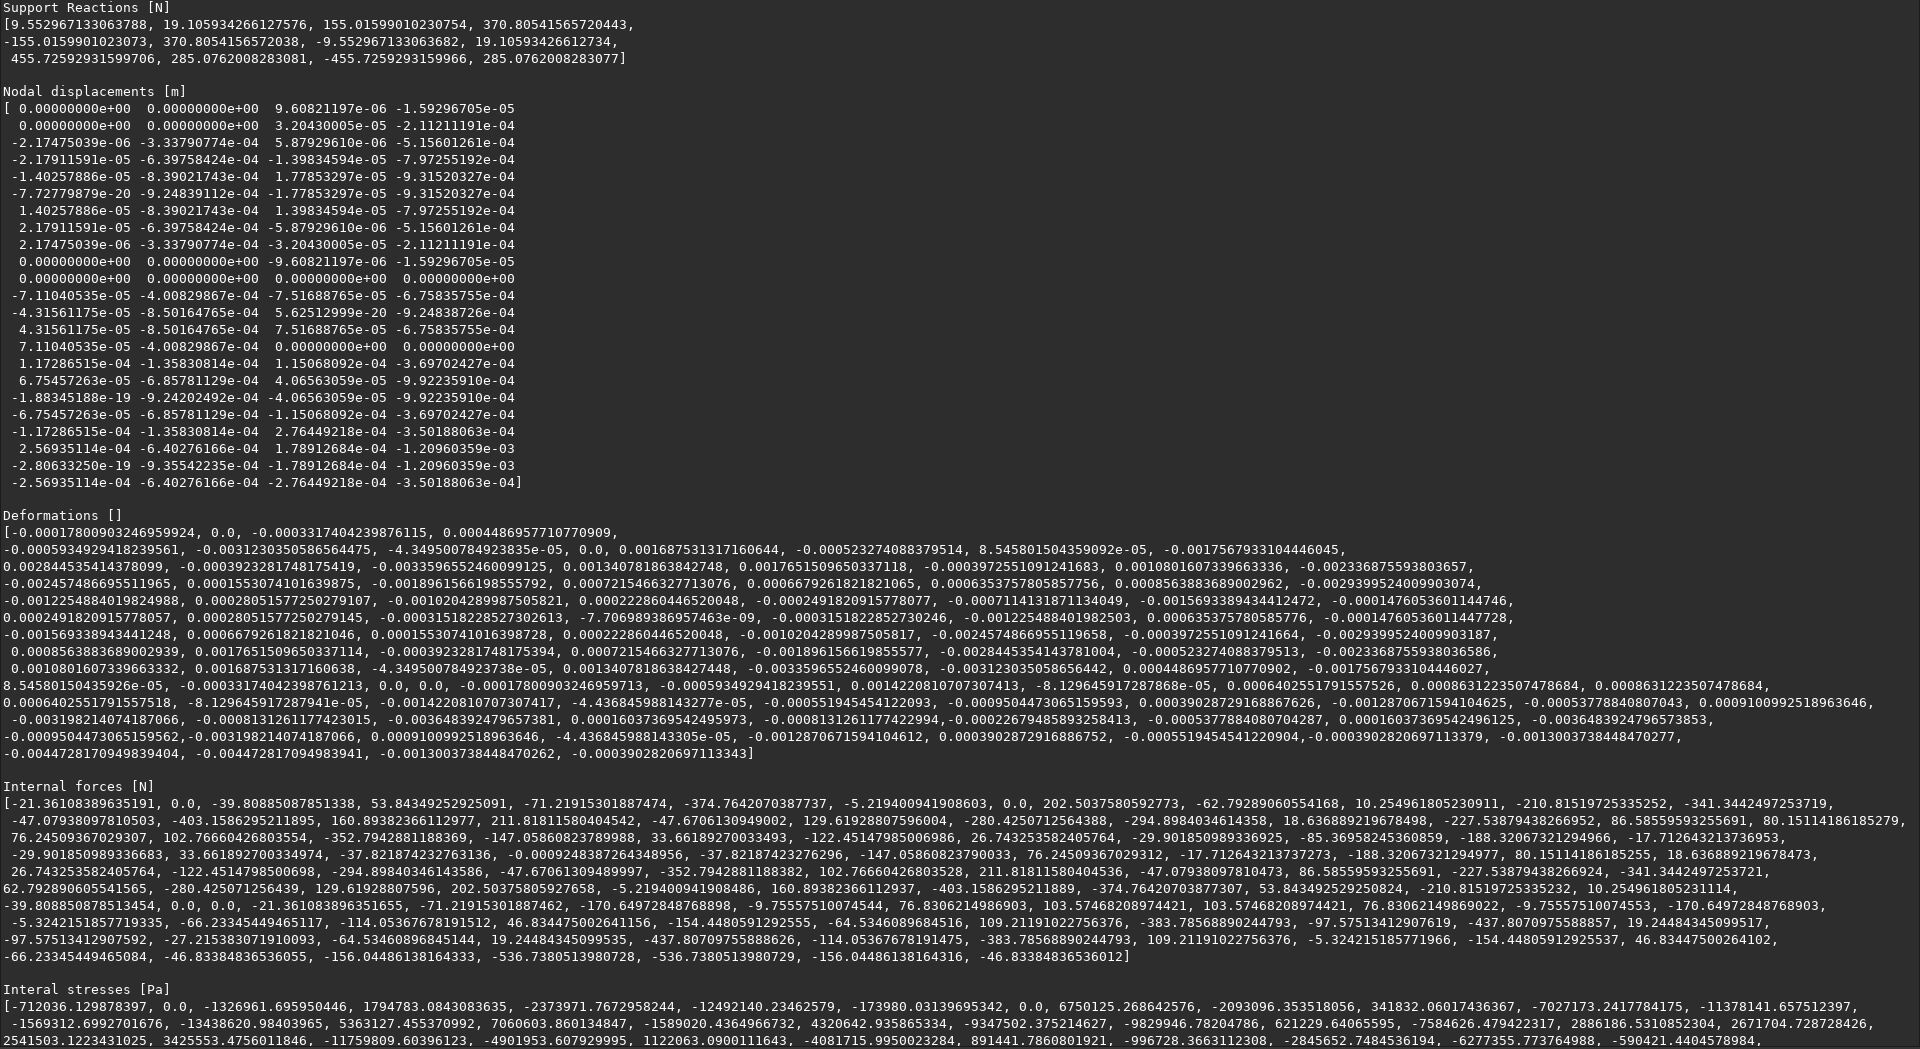
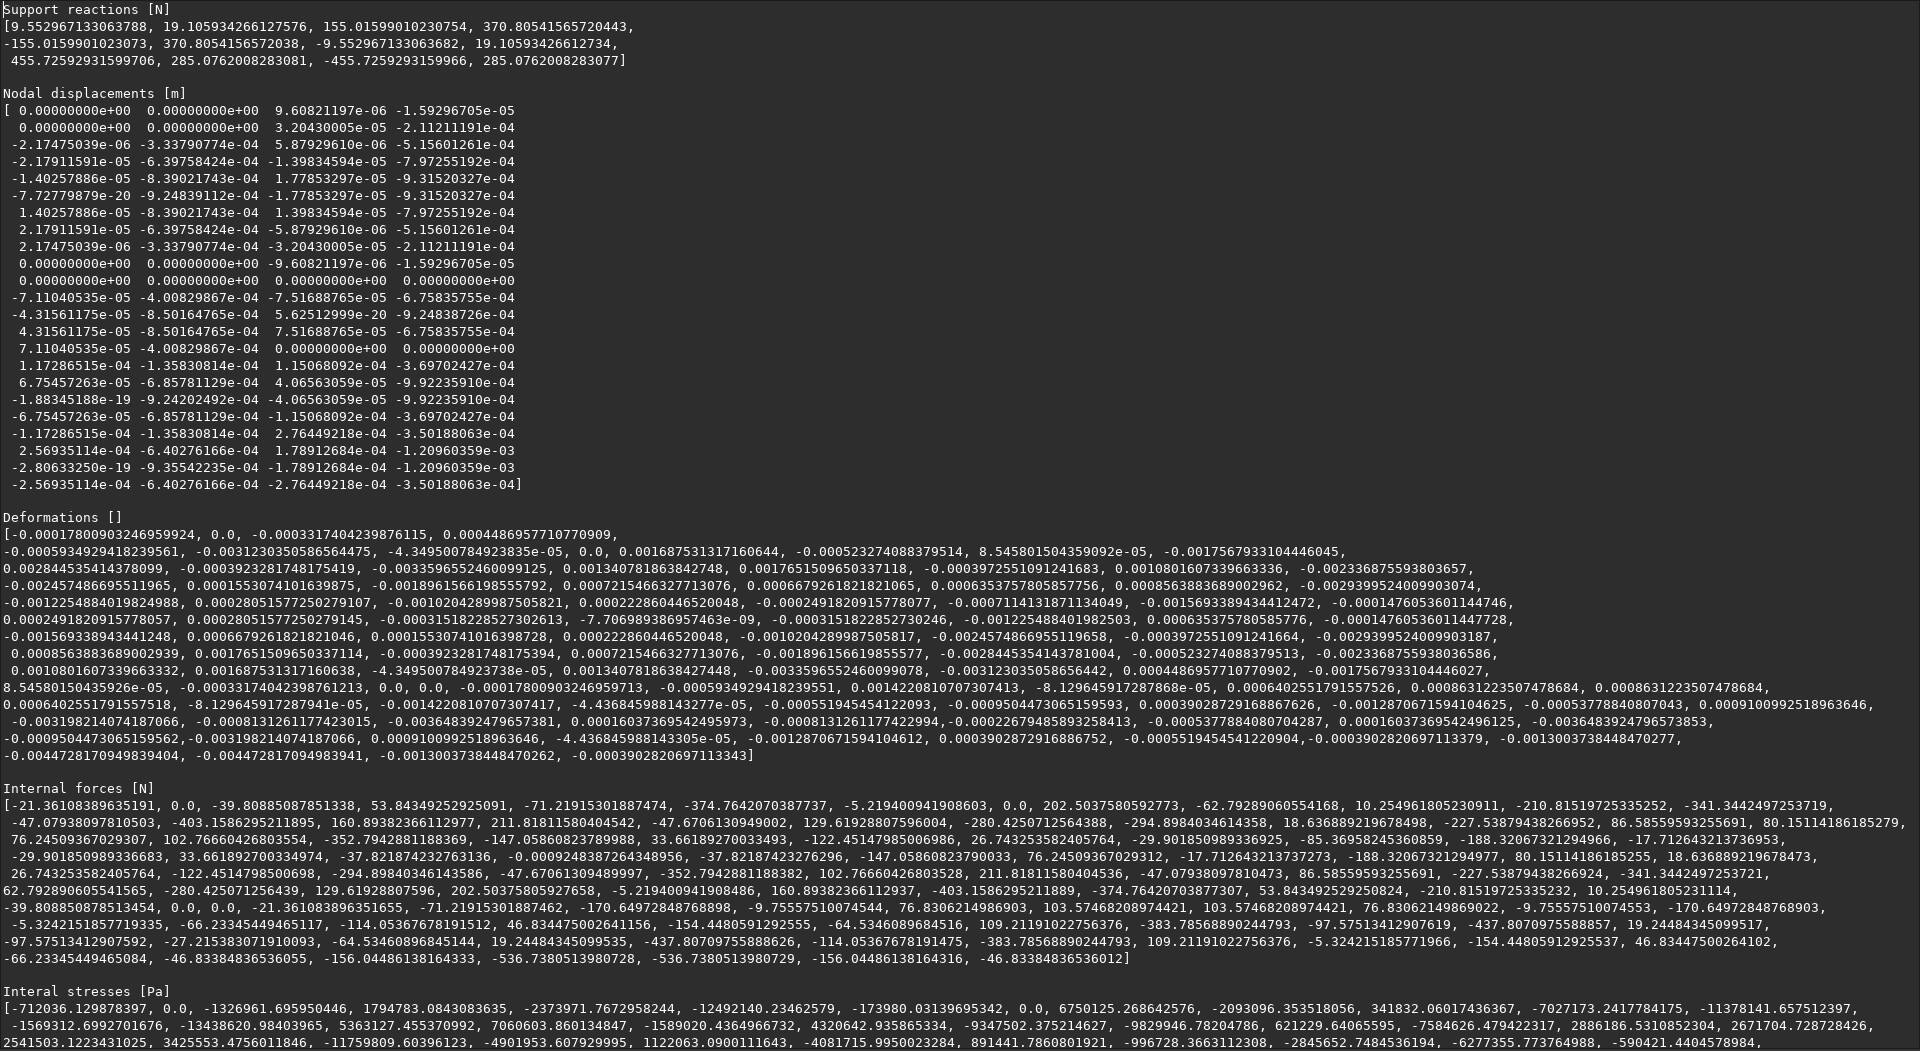
Readme images v2

Changed region(s): [[0.0, 0.0, 0.9375, 0.7321], [0.0, 0.7626, 0.9688, 0.9152]]

diff --git a/funcoesTermosol.py b/funcoesTermosol.py
@@ -126,16 +126,16 @@ def importa(entradaNome):
 
 def geraSaida(nome,Ft,Ut,Epsi,Fi,Ti):
     nome = nome + '.txt'
-    f = open("saida.txt","w+")
-    f.write('Reacoes de apoio [N]\n')
+    f = open("output.txt","w+")
+    f.write('Support reactions [N]\n')
     f.write(str(Ft))
-    f.write('\n\nDeslocamentos [m]\n')
+    f.write('\n\nNodal displacements [m]\n')
     f.write(str(Ut))
-    f.write('\n\nDeformacoes []\n')
+    f.write('\n\nDeformations []\n')
     f.write(str(Epsi))
-    f.write('\n\nForcas internas [N]\n')
+    f.write('\n\nInternal forces [N]\n')
     f.write(str(Fi))
-    f.write('\n\nTensoes internas [Pa]\n')
+    f.write('\n\nInternal stresses [Pa]\n')
     f.write(str(Ti))
     f.close()
     
